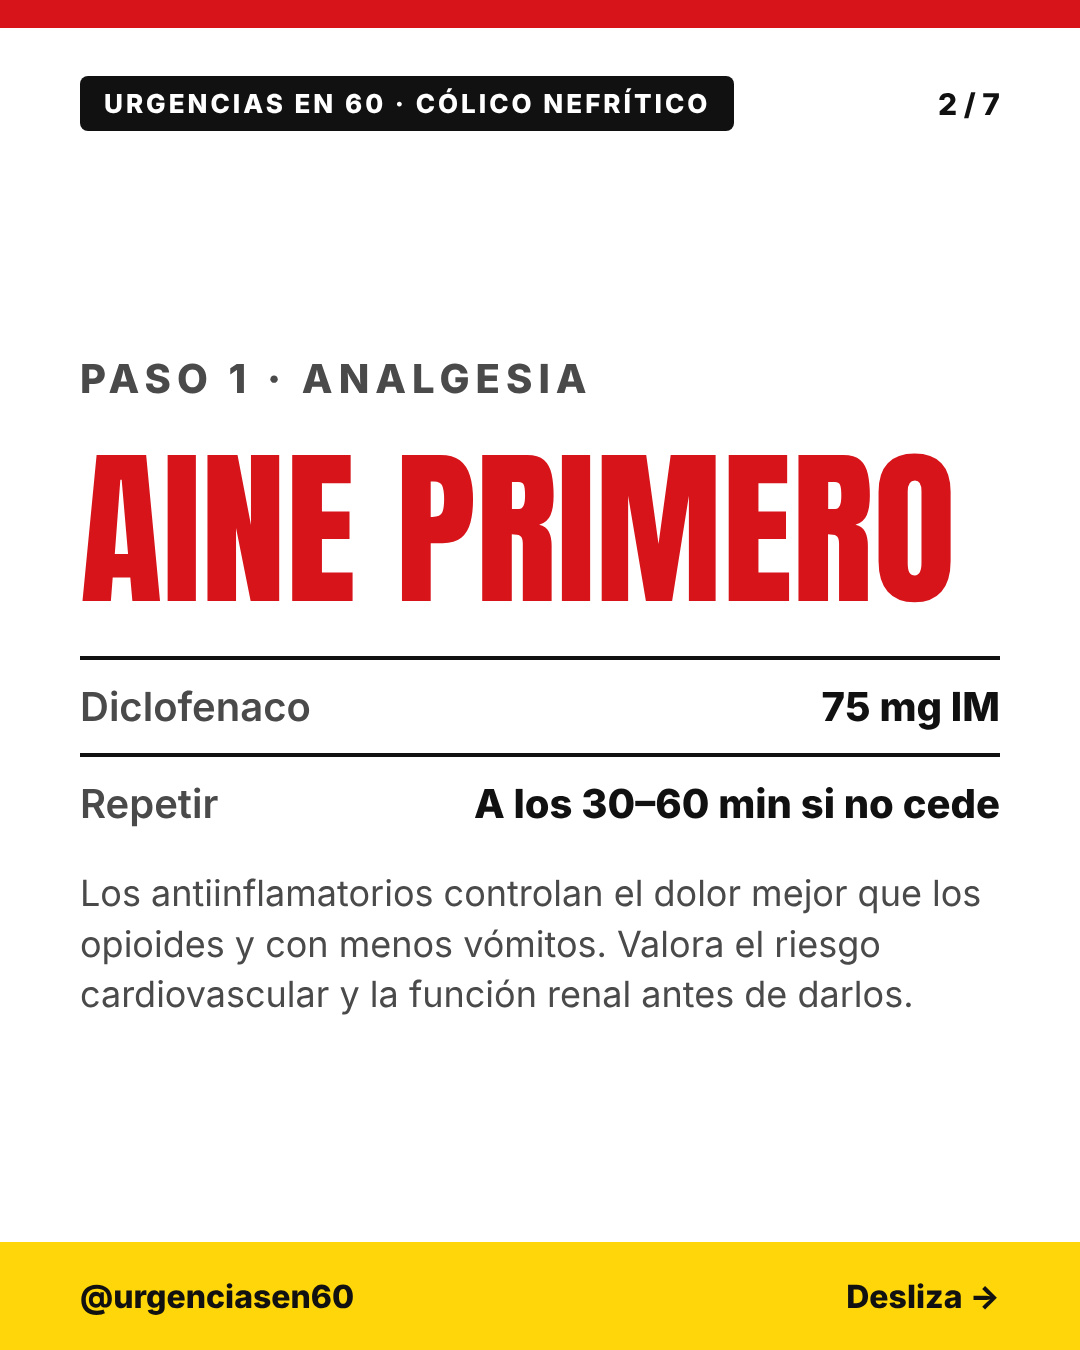
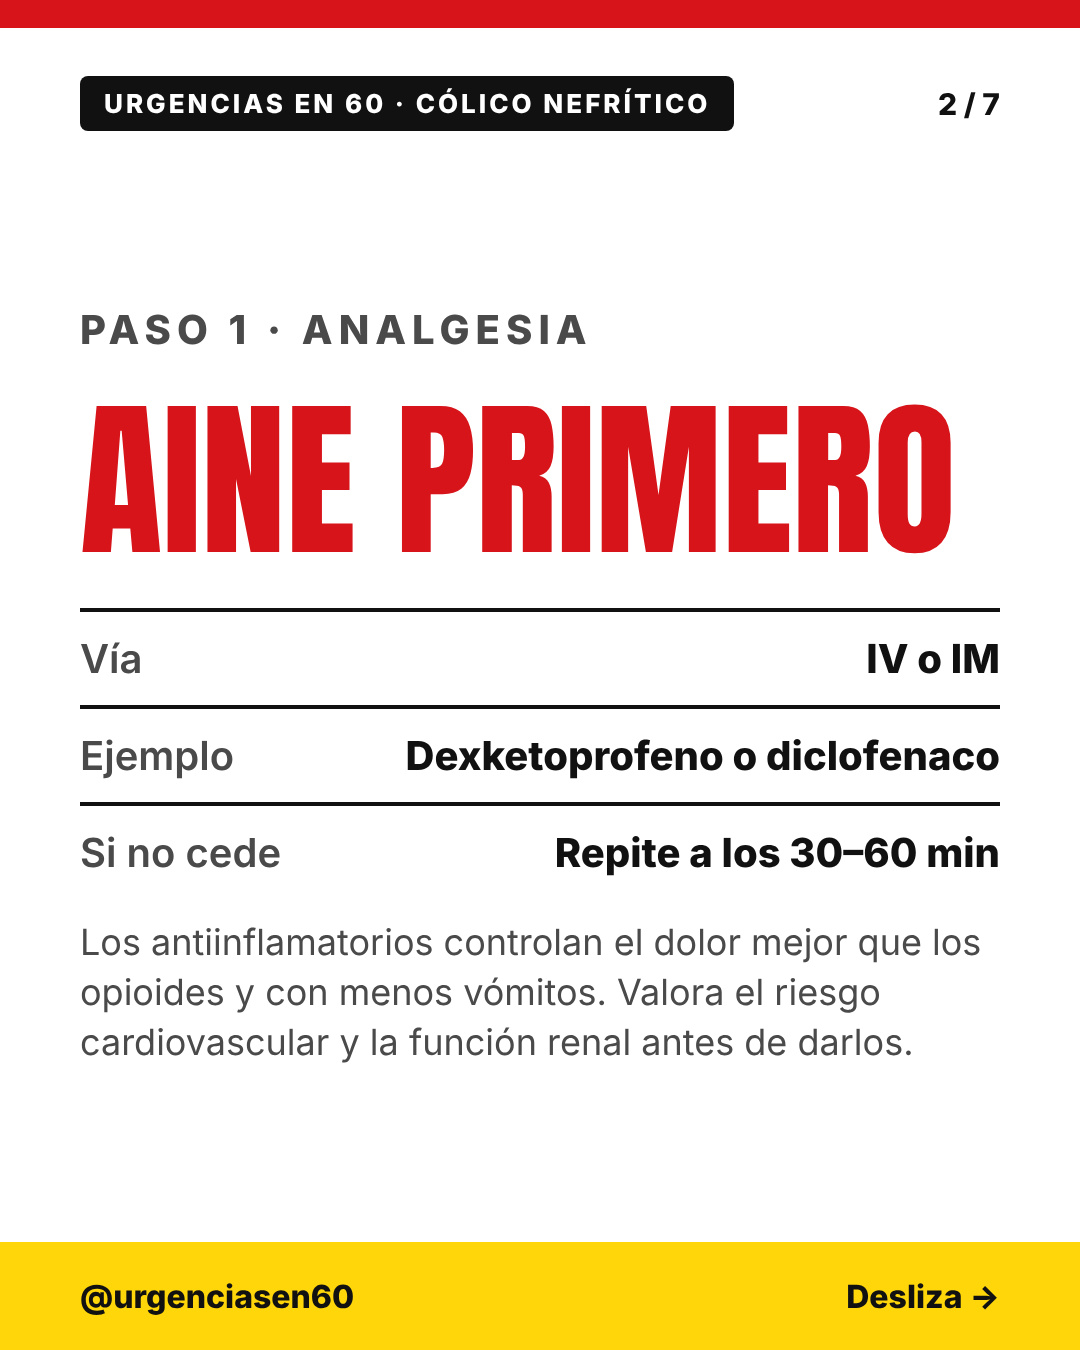
Cólico: sin dosis de fármacos de uso común; dexketoprofeno como ejemplo
Claude-Session: https://claude.ai/code/session_019S5PG2ppqwuZwMv2DxeA6e

Changed region(s): [[0.0611, 0.2178, 0.9472, 0.7778]]

diff --git a/tools/colico.py b/tools/colico.py
@@ -5,11 +5,11 @@ note=lambda t: f'<div style="font-size:36px;line-height:1.4;color:{G}">{t}</div>
 rows=lambda *x: '<div style="display:flex;flex-direction:column;gap:22px">'+"".join(x)+'</div>'
 P=[
 page(1,N,T,big("CÓLICO NEFRÍTICO",120,nowrap=True)+big(f'CON FIEBRE <span style="color:{R}">YA NO ES</span> UN CÓLICO SIMPLE',116)+'<div style="font-size:40px;font-weight:600;line-height:1.3;max-width:820px">Analgesia por escalones, qué imagen pedir y cuándo llamar a Urología. Con ficha final.</div>',cover=True),
-page(2,N,T,kicker("PASO 1 · ANALGESIA")+big("AINE PRIMERO",170,R,True)+rows(row("Diclofenaco","75 mg IM"),row("Repetir","A los 30–60 min si no cede"))+note("Los antiinflamatorios controlan el dolor mejor que los opioides y con menos vómitos. Valora el riesgo cardiovascular y la función renal antes de darlos.")),
-page(3,N,T,kicker("PASO 2 · SI NO BASTA")+big("SEGUNDO ESCALÓN",122,nowrap=True)+rows(line("Metamizol 1–2 g IV en 20 min, asociado al antiinflamatorio"),line("Opioide (tramadol) si el dolor persiste",True),line("Antiemético si hay vómitos (metoclopramida)"))+note("No fuerces la hidratación en la fase aguda: aumenta el dolor y no acelera la expulsión.")),
+page(2,N,T,kicker("PASO 1 · ANALGESIA")+big("AINE PRIMERO",170,R,True)+rows(row("Vía","IV o IM"),row("Ejemplo","Dexketoprofeno o diclofenaco"),row("Si no cede","Repite a los 30–60 min"))+note("Los antiinflamatorios controlan el dolor mejor que los opioides y con menos vómitos. Valora el riesgo cardiovascular y la función renal antes de darlos.")),
+page(3,N,T,kicker("PASO 2 · SI NO BASTA")+big("SEGUNDO ESCALÓN",122,nowrap=True)+rows(line("Metamizol IV, asociado al antiinflamatorio"),line("Opioide (tramadol) si el dolor persiste",True),line("Antiemético si hay vómitos (metoclopramida)"))+note("No fuerces la hidratación en la fase aguda: aumenta el dolor y no acelera la expulsión.")),
 page(4,N,T,kicker("PASO 3 · IMAGEN")+big("¿A QUIÉN Y QUÉ?",132,nowrap=True)+rows(row("Primera prueba","Ecografía"),row("Para confirmar","TC sin contraste (baja dosis)"))+f'<div style="border-top:4px solid {K};padding-top:28px;font-size:44px;font-weight:800;line-height:1.3;color:{R}">Imagen inmediata si hay fiebre, riñón único o dudas diagnósticas</div>'),
 page(5,N,T,kicker("LA URGENCIA REAL")+big("OBSTRUIDO E INFECTADO",104,R)+'<div style="font-size:50px;font-weight:800;line-height:1.2">Riñón obstruido + infección = descompresión urgente</div>'+rows(line("Cultivos, antibiótico y aviso a Urología"),line("Catéter doble J o nefrostomía; la litiasis se trata después",True))),
-page(6,N,T,kicker("ALTA O INGRESO")+big("AVISA A UROLOGÍA SI…",104)+rows(line("Fiebre o signos de sepsis",True),line("Anuria, riñón único o deterioro de la función renal"),line("Dolor que no cede con la analgesia"))+note("Al alta: antiinflamatorio pautado y, en litiasis ureteral distal de 5–10 mm, tamsulosina 0,4 mg al día (uso fuera de ficha técnica).")),
-page(7,N,T,ficha_body("CÓLICO NEFRÍTICO","Adulto",[("1. ANALGESIA","AINE (diclofenaco 75 mg IM), repetible a los 30–60 min",True),("2. SI NO CEDE","Metamizol 1–2 g IV. Opioide (tramadol) de segunda línea"),("IMAGEN","Ecografía; TC sin contraste para confirmar. Inmediata si fiebre, riñón único o duda"),("UROLOGÍA YA","Fiebre o sepsis, anuria, riñón único, fracaso renal, dolor refractario",True),("AL ALTA","AINE pautado. Tamsulosina 0,4 mg/día si litiasis distal de 5–10 mm"),("EVITA","Sobrehidratar en la fase aguda")],"EAU Guidelines on Urolithiasis 2026; García Sierra A, et al. Cólico nefrítico en Atención Primaria",size=100,fs=32),ficha="06"),
+page(6,N,T,kicker("ALTA O INGRESO")+big("AVISA A UROLOGÍA SI…",104)+rows(line("Fiebre o signos de sepsis",True),line("Anuria, riñón único o deterioro de la función renal"),line("Dolor que no cede con la analgesia"))+note("Al alta: antiinflamatorio pautado y, en litiasis ureteral distal de 5–10 mm, tamsulosina (uso fuera de ficha técnica).")),
+page(7,N,T,ficha_body("CÓLICO NEFRÍTICO","Adulto",[("1. ANALGESIA","AINE IV o IM (dexketoprofeno o diclofenaco), repetible a los 30–60 min",True),("2. SI NO CEDE","Añade metamizol IV. Opioide (tramadol) de segunda línea"),("IMAGEN","Ecografía; TC sin contraste para confirmar. Inmediata si fiebre, riñón único o duda"),("UROLOGÍA YA","Fiebre o sepsis, anuria, riñón único, fracaso renal, dolor refractario",True),("AL ALTA","AINE pautado. Tamsulosina si litiasis distal de 5–10 mm"),("EVITA","Sobrehidratar en la fase aguda")],"EAU Guidelines on Urolithiasis 2026; García Sierra A, et al. Cólico nefrítico en Atención Primaria",size=100,fs=32),ficha="06"),
 ]
 render(P,sys.argv[1] if len(sys.argv)>1 else "out","colico-nefritico")
